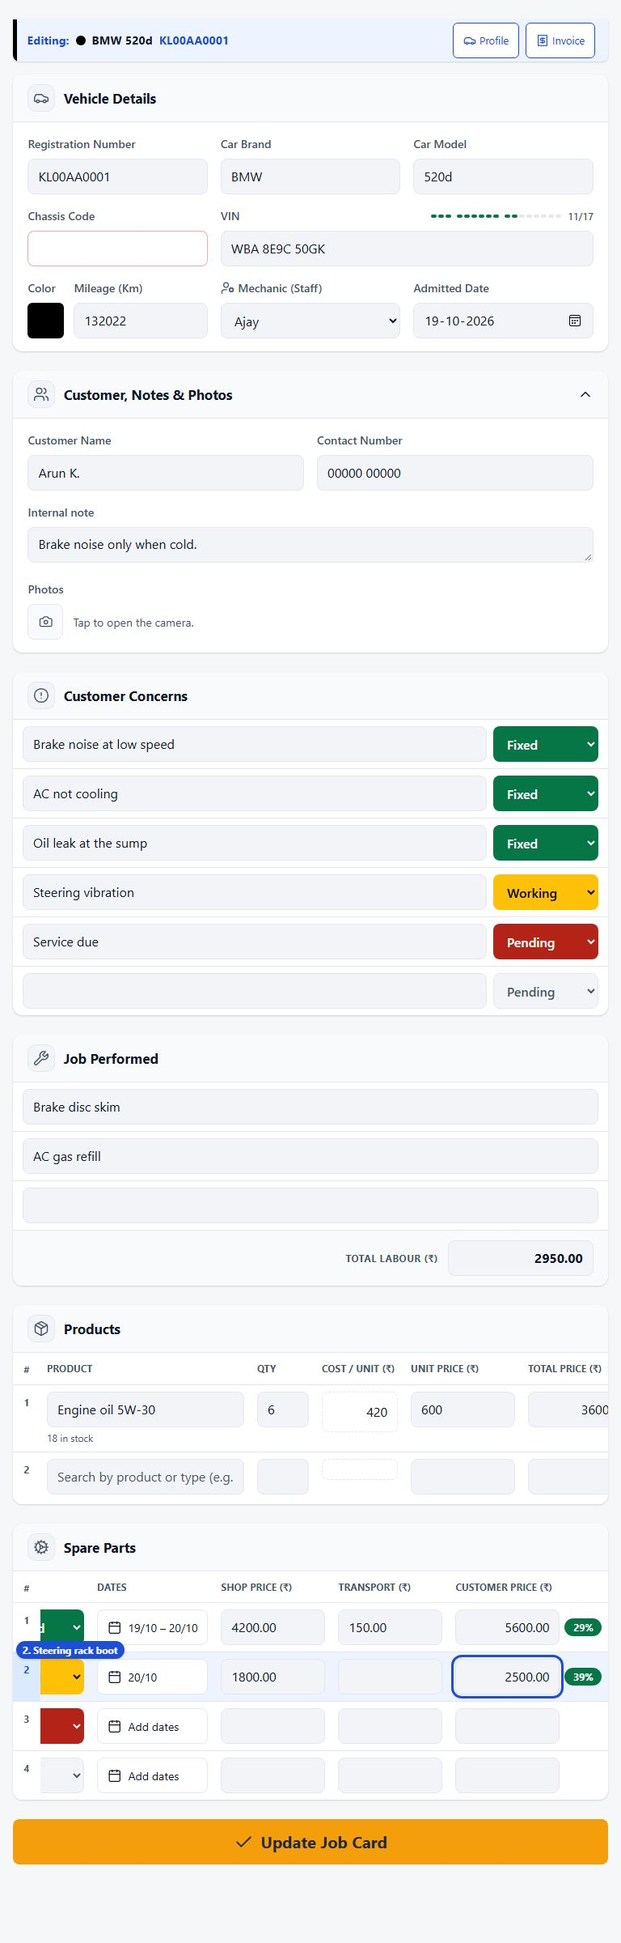
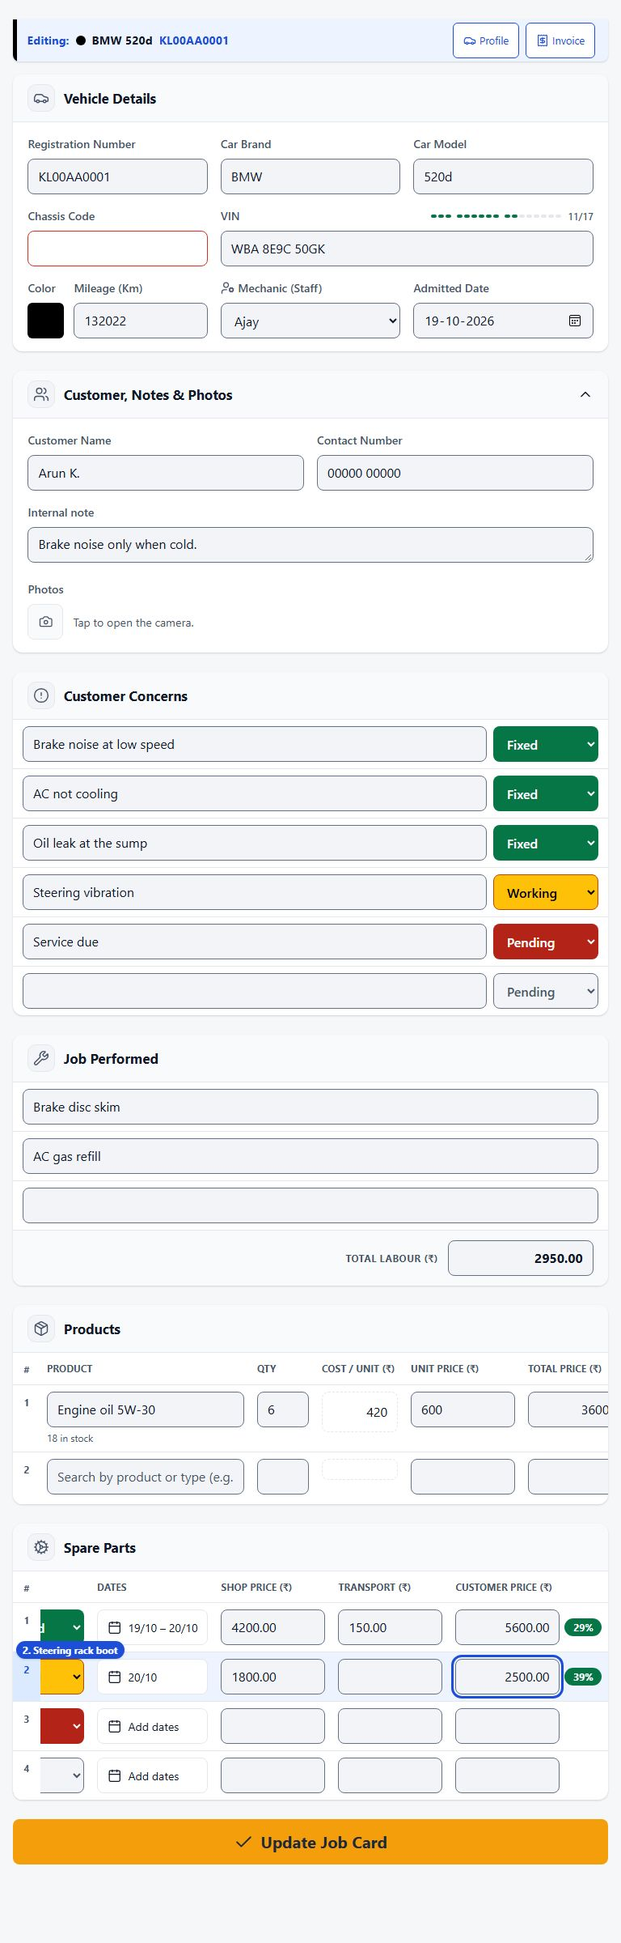
fix(design): meet WCAG 2.2 AA on every lab page
The accessibility pass measured the four lab pages at 320, 375, 768 and
1280 pixels, and tried them with the keyboard. Four things broke AA: the
job card's box edges were too faint, a box with the keyboard focus could
hide under the pinned header, its date buttons said other words to a
screen reader, and the live board scrolled sideways at 320 pixels. Each
is fixed and v1's look stays.

Changed region(s): [[0.7812, 0.4375, 0.8125, 0.4688]]

diff --git a/design/lab/job-card/index.html b/design/lab/job-card/index.html
@@ -107,13 +107,13 @@
       <div class="jc1-scroll"><table class="jc1-table">
         <thead><tr><th class="jc1-idx" aria-label="Row number">#</th><th class="jc1-w-part">Part Name</th><th class="jc1-w-qty">Qty</th><th aria-label="Photos"><svg class="icon" aria-hidden="true"><use href="../../../static/icons/icons.svg#camera"></use></svg></th><th class="jc1-w-shop office-only">Shop</th><th class="jc1-w-status">Status</th><th class="jc1-w-dates">Dates</th><th class="jc1-w-price office-only">Shop Price (₹)</th><th class="jc1-w-price office-only">Transport (₹)</th><th class="jc1-w-price-mk office-only">Customer Price (₹)</th></tr></thead>
         <tbody data-autorows="jc1-tpl-spare" data-new="New spare part">
-          <tr><td class="jc1-idx">1<span class="jc1-rowtag" aria-hidden="true">1. Brake pads</span></td><td><div class="jc1-part"><input class="jc1-input" aria-label="Spare part 1" value="Brake pads"><button class="jc1-kebab" type="button" aria-label="More for Brake pads"><svg class="icon" aria-hidden="true"><use href="../../../static/icons/icons.svg#ellipsis-vertical"></use></svg></button></div></td><td><input class="jc1-input" aria-label="Quantity of Brake pads" inputmode="decimal" value="1"></td><td><button class="jc1-camera" type="button" aria-label="Photos of Brake pads"><svg class="icon" aria-hidden="true"><use href="../../../static/icons/icons.svg#camera"></use></svg></button></td><td class="office-only"><select class="jc1-input" aria-label="Shop for Brake pads"><option value="">-- Shop --</option><option selected>Main Road Spares</option><option>City Parts Centre</option></select></td><td><select class="jc1-status is-fixed" id="jc1-ss1" aria-label="Status of Brake pads"><option>Pending</option><option>Ordered</option><option selected>Received</option></select></td><td><button class="jc1-date-chip" type="button" aria-label="Ordered and received dates of Brake pads"><svg class="icon" aria-hidden="true"><use href="../../../static/icons/icons.svg#calendar"></use></svg>19/10 – 20/10</button></td><td class="office-only"><input class="jc1-input" aria-label="Shop price of Brake pads" inputmode="decimal" value="4200.00"></td><td class="office-only"><input class="jc1-input" aria-label="Transport for Brake pads" inputmode="decimal" value="150.00"></td><td class="office-only"><div class="jc1-money"><input class="jc1-input" aria-label="Customer price of Brake pads" inputmode="decimal" value="5600.00"><span class="jc1-mk">29%</span></div></td></tr>
-          <tr><td class="jc1-idx">2<span class="jc1-rowtag" aria-hidden="true">2. Steering rack boot</span></td><td><div class="jc1-part"><input class="jc1-input" aria-label="Spare part 2" value="Steering rack boot"><button class="jc1-kebab" type="button" aria-label="More for Steering rack boot"><svg class="icon" aria-hidden="true"><use href="../../../static/icons/icons.svg#ellipsis-vertical"></use></svg></button></div></td><td><input class="jc1-input" aria-label="Quantity of Steering rack boot" inputmode="decimal" value="2"></td><td><button class="jc1-camera" type="button" aria-label="Photos of Steering rack boot"><svg class="icon" aria-hidden="true"><use href="../../../static/icons/icons.svg#camera"></use></svg></button></td><td class="office-only"><select class="jc1-input" aria-label="Shop for Steering rack boot"><option value="">-- Shop --</option><option>Main Road Spares</option><option selected>City Parts Centre</option></select></td><td><select class="jc1-status is-working" id="jc1-ss2" aria-label="Status of Steering rack boot"><option>Pending</option><option selected>Ordered</option><option>Received</option></select></td><td><button class="jc1-date-chip" type="button" aria-label="Ordered and received dates of Steering rack boot"><svg class="icon" aria-hidden="true"><use href="../../../static/icons/icons.svg#calendar"></use></svg>20/10</button></td><td class="office-only"><input class="jc1-input" aria-label="Shop price of Steering rack boot" inputmode="decimal" value="1800.00"></td><td class="office-only"><input class="jc1-input" aria-label="Transport for Steering rack boot" inputmode="decimal" value=""></td><td class="office-only"><div class="jc1-money"><input class="jc1-input" aria-label="Customer price of Steering rack boot" inputmode="decimal" value="2500.00"><span class="jc1-mk">39%</span></div></td></tr>
-          <tr><td class="jc1-idx">3<span class="jc1-rowtag" aria-hidden="true">3. Wiper blades</span></td><td><div class="jc1-part"><input class="jc1-input" aria-label="Spare part 3" value="Wiper blades"><button class="jc1-kebab" type="button" aria-label="More for Wiper blades"><svg class="icon" aria-hidden="true"><use href="../../../static/icons/icons.svg#ellipsis-vertical"></use></svg></button></div></td><td><input class="jc1-input" aria-label="Quantity of Wiper blades" inputmode="decimal" value="2"></td><td><button class="jc1-camera" type="button" aria-label="Photos of Wiper blades"><svg class="icon" aria-hidden="true"><use href="../../../static/icons/icons.svg#camera"></use></svg></button></td><td class="office-only"><select class="jc1-input" aria-label="Shop for Wiper blades"><option value="">-- Shop --</option><option>Main Road Spares</option><option>City Parts Centre</option></select></td><td><select class="jc1-status is-pending" id="jc1-ss3" aria-label="Status of Wiper blades"><option selected>Pending</option><option>Ordered</option><option>Received</option></select></td><td><button class="jc1-date-chip" type="button" aria-label="Ordered and received dates of Wiper blades"><svg class="icon" aria-hidden="true"><use href="../../../static/icons/icons.svg#calendar"></use></svg>Add dates</button></td><td class="office-only"><input class="jc1-input" aria-label="Shop price of Wiper blades" inputmode="decimal" value=""></td><td class="office-only"><input class="jc1-input" aria-label="Transport for Wiper blades" inputmode="decimal" value=""></td><td class="office-only"><div class="jc1-money"><input class="jc1-input" aria-label="Customer price of Wiper blades" inputmode="decimal" value=""><span class="jc1-mk is-empty" aria-hidden="true"></span></div></td></tr>
-          <tr class="is-open"><td class="jc1-idx">4<span class="jc1-rowtag" aria-hidden="true">4. New spare part</span></td><td><div class="jc1-part"><input class="jc1-input" aria-label="New spare part"></div></td><td><input class="jc1-input" aria-label="Quantity of the new spare part" inputmode="decimal"></td><td></td><td class="office-only"><select class="jc1-input" aria-label="Shop for the new spare part"><option value="">-- Shop --</option><option>Main Road Spares</option><option>City Parts Centre</option></select></td><td><select class="jc1-status is-pending" aria-label="Status of the new spare part"><option selected>Pending</option><option>Ordered</option><option>Received</option></select></td><td><button class="jc1-date-chip" type="button" aria-label="Ordered and received dates of the new spare part"><svg class="icon" aria-hidden="true"><use href="../../../static/icons/icons.svg#calendar"></use></svg>Add dates</button></td><td class="office-only"><input class="jc1-input" aria-label="Shop price of the new spare part" inputmode="decimal"></td><td class="office-only"><input class="jc1-input" aria-label="Transport for the new spare part" inputmode="decimal"></td><td class="office-only"><div class="jc1-money"><input class="jc1-input" aria-label="Customer price of the new spare part" inputmode="decimal"><span class="jc1-mk is-empty" aria-hidden="true"></span></div></td></tr>
+          <tr><td class="jc1-idx">1<span class="jc1-rowtag" aria-hidden="true">1. Brake pads</span></td><td><div class="jc1-part"><input class="jc1-input" aria-label="Spare part 1" value="Brake pads"><button class="jc1-kebab" type="button" aria-label="More for Brake pads"><svg class="icon" aria-hidden="true"><use href="../../../static/icons/icons.svg#ellipsis-vertical"></use></svg></button></div></td><td><input class="jc1-input" aria-label="Quantity of Brake pads" inputmode="decimal" value="1"></td><td><button class="jc1-camera" type="button" aria-label="Photos of Brake pads"><svg class="icon" aria-hidden="true"><use href="../../../static/icons/icons.svg#camera"></use></svg></button></td><td class="office-only"><select class="jc1-input" aria-label="Shop for Brake pads"><option value="">-- Shop --</option><option selected>Main Road Spares</option><option>City Parts Centre</option></select></td><td><select class="jc1-status is-fixed" id="jc1-ss1" aria-label="Status of Brake pads"><option>Pending</option><option>Ordered</option><option selected>Received</option></select></td><td><button class="jc1-date-chip" type="button" aria-label="19/10 – 20/10, ordered and received dates of Brake pads"><svg class="icon" aria-hidden="true"><use href="../../../static/icons/icons.svg#calendar"></use></svg>19/10 – 20/10</button></td><td class="office-only"><input class="jc1-input" aria-label="Shop price of Brake pads" inputmode="decimal" value="4200.00"></td><td class="office-only"><input class="jc1-input" aria-label="Transport for Brake pads" inputmode="decimal" value="150.00"></td><td class="office-only"><div class="jc1-money"><input class="jc1-input" aria-label="Customer price of Brake pads" inputmode="decimal" value="5600.00"><span class="jc1-mk">29%</span></div></td></tr>
+          <tr><td class="jc1-idx">2<span class="jc1-rowtag" aria-hidden="true">2. Steering rack boot</span></td><td><div class="jc1-part"><input class="jc1-input" aria-label="Spare part 2" value="Steering rack boot"><button class="jc1-kebab" type="button" aria-label="More for Steering rack boot"><svg class="icon" aria-hidden="true"><use href="../../../static/icons/icons.svg#ellipsis-vertical"></use></svg></button></div></td><td><input class="jc1-input" aria-label="Quantity of Steering rack boot" inputmode="decimal" value="2"></td><td><button class="jc1-camera" type="button" aria-label="Photos of Steering rack boot"><svg class="icon" aria-hidden="true"><use href="../../../static/icons/icons.svg#camera"></use></svg></button></td><td class="office-only"><select class="jc1-input" aria-label="Shop for Steering rack boot"><option value="">-- Shop --</option><option>Main Road Spares</option><option selected>City Parts Centre</option></select></td><td><select class="jc1-status is-working" id="jc1-ss2" aria-label="Status of Steering rack boot"><option>Pending</option><option selected>Ordered</option><option>Received</option></select></td><td><button class="jc1-date-chip" type="button" aria-label="20/10, ordered and received dates of Steering rack boot"><svg class="icon" aria-hidden="true"><use href="../../../static/icons/icons.svg#calendar"></use></svg>20/10</button></td><td class="office-only"><input class="jc1-input" aria-label="Shop price of Steering rack boot" inputmode="decimal" value="1800.00"></td><td class="office-only"><input class="jc1-input" aria-label="Transport for Steering rack boot" inputmode="decimal" value=""></td><td class="office-only"><div class="jc1-money"><input class="jc1-input" aria-label="Customer price of Steering rack boot" inputmode="decimal" value="2500.00"><span class="jc1-mk">39%</span></div></td></tr>
+          <tr><td class="jc1-idx">3<span class="jc1-rowtag" aria-hidden="true">3. Wiper blades</span></td><td><div class="jc1-part"><input class="jc1-input" aria-label="Spare part 3" value="Wiper blades"><button class="jc1-kebab" type="button" aria-label="More for Wiper blades"><svg class="icon" aria-hidden="true"><use href="../../../static/icons/icons.svg#ellipsis-vertical"></use></svg></button></div></td><td><input class="jc1-input" aria-label="Quantity of Wiper blades" inputmode="decimal" value="2"></td><td><button class="jc1-camera" type="button" aria-label="Photos of Wiper blades"><svg class="icon" aria-hidden="true"><use href="../../../static/icons/icons.svg#camera"></use></svg></button></td><td class="office-only"><select class="jc1-input" aria-label="Shop for Wiper blades"><option value="">-- Shop --</option><option>Main Road Spares</option><option>City Parts Centre</option></select></td><td><select class="jc1-status is-pending" id="jc1-ss3" aria-label="Status of Wiper blades"><option selected>Pending</option><option>Ordered</option><option>Received</option></select></td><td><button class="jc1-date-chip" type="button" aria-label="Add dates for Wiper blades"><svg class="icon" aria-hidden="true"><use href="../../../static/icons/icons.svg#calendar"></use></svg>Add dates</button></td><td class="office-only"><input class="jc1-input" aria-label="Shop price of Wiper blades" inputmode="decimal" value=""></td><td class="office-only"><input class="jc1-input" aria-label="Transport for Wiper blades" inputmode="decimal" value=""></td><td class="office-only"><div class="jc1-money"><input class="jc1-input" aria-label="Customer price of Wiper blades" inputmode="decimal" value=""><span class="jc1-mk is-empty" aria-hidden="true"></span></div></td></tr>
+          <tr class="is-open"><td class="jc1-idx">4<span class="jc1-rowtag" aria-hidden="true">4. New spare part</span></td><td><div class="jc1-part"><input class="jc1-input" aria-label="New spare part"></div></td><td><input class="jc1-input" aria-label="Quantity of the new spare part" inputmode="decimal"></td><td></td><td class="office-only"><select class="jc1-input" aria-label="Shop for the new spare part"><option value="">-- Shop --</option><option>Main Road Spares</option><option>City Parts Centre</option></select></td><td><select class="jc1-status is-pending" aria-label="Status of the new spare part"><option selected>Pending</option><option>Ordered</option><option>Received</option></select></td><td><button class="jc1-date-chip" type="button" aria-label="Add dates for the new spare part"><svg class="icon" aria-hidden="true"><use href="../../../static/icons/icons.svg#calendar"></use></svg>Add dates</button></td><td class="office-only"><input class="jc1-input" aria-label="Shop price of the new spare part" inputmode="decimal"></td><td class="office-only"><input class="jc1-input" aria-label="Transport for the new spare part" inputmode="decimal"></td><td class="office-only"><div class="jc1-money"><input class="jc1-input" aria-label="Customer price of the new spare part" inputmode="decimal"><span class="jc1-mk is-empty" aria-hidden="true"></span></div></td></tr>
         </tbody>
       </table></div>
-      <template id="jc1-tpl-spare"><tr class="is-open"><td class="jc1-idx"><span class="jc1-rowtag" aria-hidden="true">. New spare part</span></td><td><div class="jc1-part"><input class="jc1-input" aria-label="New spare part"></div></td><td><input class="jc1-input" aria-label="Quantity of the new spare part" inputmode="decimal"></td><td></td><td class="office-only"><select class="jc1-input" aria-label="Shop for the new spare part"><option value="">-- Shop --</option><option>Main Road Spares</option><option>City Parts Centre</option></select></td><td><select class="jc1-status is-pending" aria-label="Status of the new spare part"><option selected>Pending</option><option>Ordered</option><option>Received</option></select></td><td><button class="jc1-date-chip" type="button" aria-label="Ordered and received dates of the new spare part"><svg class="icon" aria-hidden="true"><use href="../../../static/icons/icons.svg#calendar"></use></svg>Add dates</button></td><td class="office-only"><input class="jc1-input" aria-label="Shop price of the new spare part" inputmode="decimal"></td><td class="office-only"><input class="jc1-input" aria-label="Transport for the new spare part" inputmode="decimal"></td><td class="office-only"><div class="jc1-money"><input class="jc1-input" aria-label="Customer price of the new spare part" inputmode="decimal"><span class="jc1-mk is-empty" aria-hidden="true"></span></div></td></tr></template>
+      <template id="jc1-tpl-spare"><tr class="is-open"><td class="jc1-idx"><span class="jc1-rowtag" aria-hidden="true">. New spare part</span></td><td><div class="jc1-part"><input class="jc1-input" aria-label="New spare part"></div></td><td><input class="jc1-input" aria-label="Quantity of the new spare part" inputmode="decimal"></td><td></td><td class="office-only"><select class="jc1-input" aria-label="Shop for the new spare part"><option value="">-- Shop --</option><option>Main Road Spares</option><option>City Parts Centre</option></select></td><td><select class="jc1-status is-pending" aria-label="Status of the new spare part"><option selected>Pending</option><option>Ordered</option><option>Received</option></select></td><td><button class="jc1-date-chip" type="button" aria-label="Add dates for the new spare part"><svg class="icon" aria-hidden="true"><use href="../../../static/icons/icons.svg#calendar"></use></svg>Add dates</button></td><td class="office-only"><input class="jc1-input" aria-label="Shop price of the new spare part" inputmode="decimal"></td><td class="office-only"><input class="jc1-input" aria-label="Transport for the new spare part" inputmode="decimal"></td><td class="office-only"><div class="jc1-money"><input class="jc1-input" aria-label="Customer price of the new spare part" inputmode="decimal"><span class="jc1-mk is-empty" aria-hidden="true"></span></div></td></tr></template>
     </div>
 
     <button class="jc1-submit" type="button"><svg class="icon" aria-hidden="true"><use href="../../../static/icons/icons.svg#check"></use></svg>Update Job Card</button>

diff --git a/design/lab/job-card/job-card.css b/design/lab/job-card/job-card.css
@@ -79,6 +79,17 @@
      rule breaks: every box and button at least 44px, status colours that
      pass AA, a name for every box, and no inline style. */
 
+  /* A box that gets the keyboard focus is never left under the pinned
+     header or the pinned row number (WCAG 2.4.11): the browser scrolls it
+     clear by these amounts. */
+  :root {
+    scroll-padding-top: 6rem;
+  }
+
+  .jc1-scroll {
+    scroll-padding-left: 40px;
+  }
+
   .jc1-head {
     position: sticky;
     top: 0;
@@ -379,7 +390,7 @@
     width: 100%;
     min-height: var(--tap-min);
     padding: 0 var(--space-3);
-    border: 1px solid var(--color-border);
+    border: 1px solid var(--color-border-control);
     border-radius: var(--radius-md);
     background: var(--color-neutral-soft);
     color: var(--color-text);
@@ -405,14 +416,15 @@
      Add buttons. Its status stays grey, whatever is picked, until something
      is typed, so it never looks like a real part waiting. */
   .is-open .jc1-status:is(.is-pending, .is-working, .is-fixed) {
-    border-color: var(--color-border);
+    border-color: var(--color-border-control);
     background: var(--color-neutral-soft);
     color: var(--color-text-muted);
   }
 
-  /* An empty box wears a red hairline until it is filled (v1). */
+  /* An empty box wears a red hairline until it is filled (v1), in the
+     full red so the box's edge stays visible (AA, 3 to 1). */
   .jc1-input.is-empty {
-    border-color: var(--color-danger-edge-soft);
+    border-color: var(--color-danger);
     background: var(--color-surface);
   }
 
@@ -489,7 +501,10 @@
     color: var(--color-text-on-strong);
   }
 
+  /* v1's amber is too light to show the box's edge on white, so the edge
+     is a darker amber. */
   .jc1-status.is-working {
+    border-color: var(--color-warning-text);
     background: var(--color-status-working);
     color: var(--color-on-status-working);
   }

diff --git a/design/lab/live-board/board.css b/design/lab/live-board/board.css
@@ -185,7 +185,9 @@
     display: grid;
     gap: var(--space-4);
     align-items: start;
-    grid-template-columns: repeat(auto-fill, minmax(320px, 1fr));
+    /* A card is 320px wide or more, but never wider than the screen
+       (WCAG 1.4.10: no sideways scroll at 320px). */
+    grid-template-columns: repeat(auto-fill, minmax(min(100%, 320px), 1fr));
   }
 
   /* Exactly as v1: a 10px stripe in the car's colour, and the card washed

diff --git a/docs/design/README.md b/docs/design/README.md
@@ -7,5 +7,5 @@ What the UI lab chose, one line each, with its picture. How the lab works:
 |---|---|---|
 | Base look | Chosen from three designs (a proposed one, v1 as it is, a premium one) plus a mix of their best parts: a quiet page, a deeper blue, colour only for status, and from v1 the status edge, the big amount and the row of dates. Every text colour passes AA. | [base-look.jpg](base-look.jpg) |
 | Live board | Chosen from two designs (v1 rebuilt, and a premium refined v1): v1's car card and contents, because the owners settled each part and the staff already know it. The paint stripe and colour stay exactly as v1. Fixed to our rules: 1, 2 or 3 columns, "On hold" in words, AA contrast, no inline style. From the refined design, the lighter View drawer, with v1's working clock. | [live-board.jpg](live-board.jpg) |
-| Job card | Chosen from two designs (v1 rebuilt, and v1 reworked with the work first): v1's job card as it is, because the staff know it and it keeps the screen calm. The parts tables still scroll sideways on a phone; three ways to stop that were tried and felt cluttered. Kept from v1: the row number pinned on the left and the row being edited lit up. Added: while a row is edited, a tag above it gives its number and full name, so a price never goes into the wrong part. No Add buttons: each list keeps one open, empty row at its end, and typing into it opens the next (v1's Old Bills); an untouched open row is never saved, and its status stays grey. No hint text in empty boxes but the stock search's. On a laptop, the customer's name, number and note share one row. The plate comes first, before Brand and Model, as on v1's Old Bills, so a known car fills them. The VIN has a small meter, 17 bars and a count, that turns green as it is typed and red past 17. Fixed to our rules: every box 44px, status colours that pass AA, a name for every box. | [job-card.jpg](job-card.jpg) |
+| Job card | Chosen from two designs (v1 rebuilt, and v1 reworked with the work first): v1's job card as it is, because the staff know it and it keeps the screen calm. The parts tables still scroll sideways on a phone; three ways to stop that were tried and felt cluttered. Kept from v1: the row number pinned on the left and the row being edited lit up. Added: while a row is edited, a tag above it gives its number and full name, so a price never goes into the wrong part. No Add buttons: each list keeps one open, empty row at its end, and typing into it opens the next (v1's Old Bills); an untouched open row is never saved, and its status stays grey. No hint text in empty boxes but the stock search's. On a laptop, the customer's name, number and note share one row. The plate comes first, before Brand and Model, as on v1's Old Bills, so a known car fills them. The VIN has a small meter, 17 bars and a count, that turns green as it is typed and red past 17. Fixed to our rules: every box 44px, status colours that pass AA, box edges at 3 to 1, a name for every box, and a box with the keyboard focus never hidden under the pinned header. | [job-card.jpg](job-card.jpg) |
 | Owner dashboard | Chosen from two designs (v1 rebuilt, and v1 made better): v1's Profit page (Analysis & Reports, owners only), with three parts of the refined design. The cash card shows Money in and Money out as a green and a red panel. The profit for each month is a line: green above zero, red below, the latest month on the right scale, and a tap on a month gives its figure. There is no zoom, because a year is 12 points and the period buttons choose the range. One card under the equation, "Before you trust these figures", holds every warning, each with where, why and how. A Fix is a definite error and goes only when fixed. A Check is a guess from an entry's name and goes when fixed or marked as checked. Hide folds the card. The current month's wages are never a warning: they are missing every month until the month is settled, so a Not final chip sits on the profit itself and cannot be hidden. On a laptop the boxes sit in two columns that end level, in the same frame as every screen. Fixed to our rules: no amount owed is green, no icon on every row, no inline style or script, every control 44px, AA contrast. | [owner-dashboard.jpg](owner-dashboard.jpg) |

diff --git a/docs/DESIGN.md b/docs/DESIGN.md
@@ -103,10 +103,19 @@ The components, in `static/css/components.css`:
 The target is WCAG 2.2, level AA.
 
 - Contrast: at least 4.5 to 1 for normal text, 3 to 1 for large text and
-  for controls.
+  for controls. A box's edge is 3 to 1 against what is around it.
 - Touch targets: at least 44 by 44 pixels. This is stricter than AA, which
-  asks for 24.
-- Labels: every field has a visible label. Two exceptions, both v1's:
-  the list search (its search icon and hint say what it is) and the
+  asks for 24. A control that looks smaller gets an invisible band that
+  makes it 44 to a finger.
+- Labels: every field has a visible label. In a table it is the column
+  heading, and in a list of rows the section title. Two exceptions, both
+  v1's: the list search (its search icon and hint say what it is) and the
   payment row's date (its calendar icon and the date itself). A screen
-  reader hears a label on both.
+  reader hears a label on every box.
+- Focus: a box that gets the keyboard focus is never hidden under a
+  pinned header or column; scroll padding keeps it clear.
+- Reflow: no sideways page scroll at 320 pixels wide. A wide table
+  scrolls inside its own box.
+- Checked: every lab page at 320, 375, 768 and 1280 pixels wide, by
+  measurement and with the keyboard. Not tried yet: a screen reader, and
+  the real devices.

diff --git a/docs/PLAN.md b/docs/PLAN.md
@@ -173,9 +173,9 @@ Marks: `[x]` done, `[~]` in progress, `[ ]` to do
 - [ ] Each signature screen's size and speed measured on the floor tablet;
       a limit set from it
 - [x] JavaScript unit tests, set up with the first JS module
-- [ ] Checked at phone, tablet and laptop widths
+- [x] Checked at phone, tablet and laptop widths
 - [ ] Tried on the real devices by the real users (`docs/DESIGN.md`)
-- [ ] Accessibility: WCAG 2.2 AA (`docs/DESIGN.md`)
+- [x] Accessibility: WCAG 2.2 AA (`docs/DESIGN.md`)
 
 ### Phase 4: Core architecture
 
